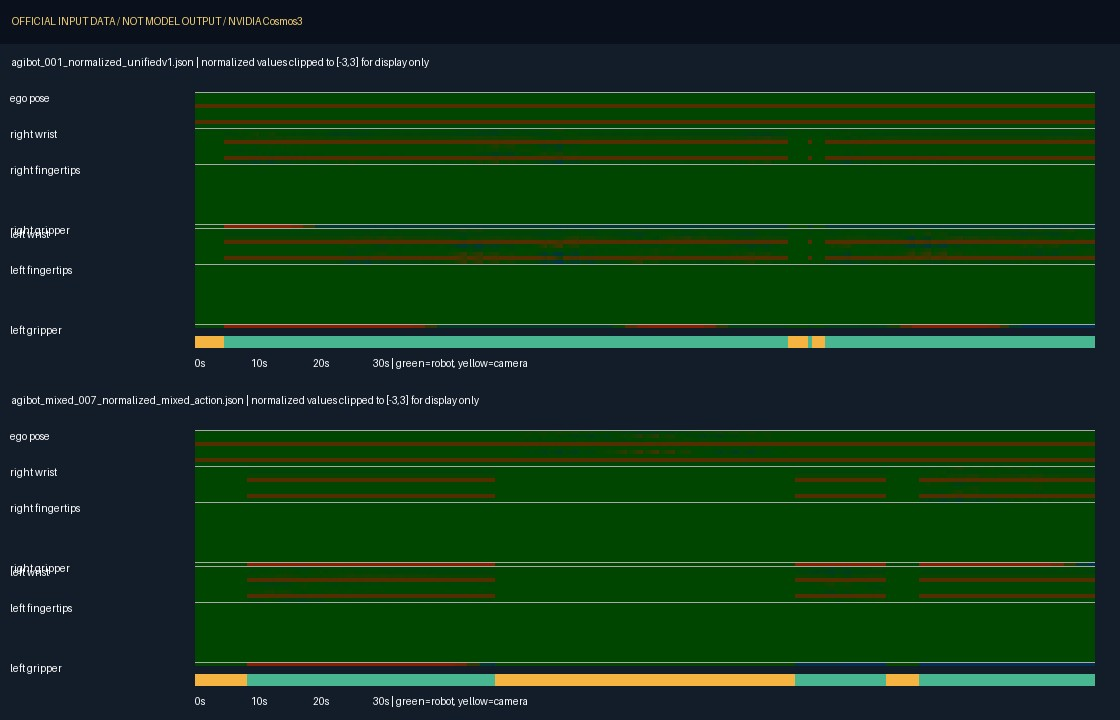
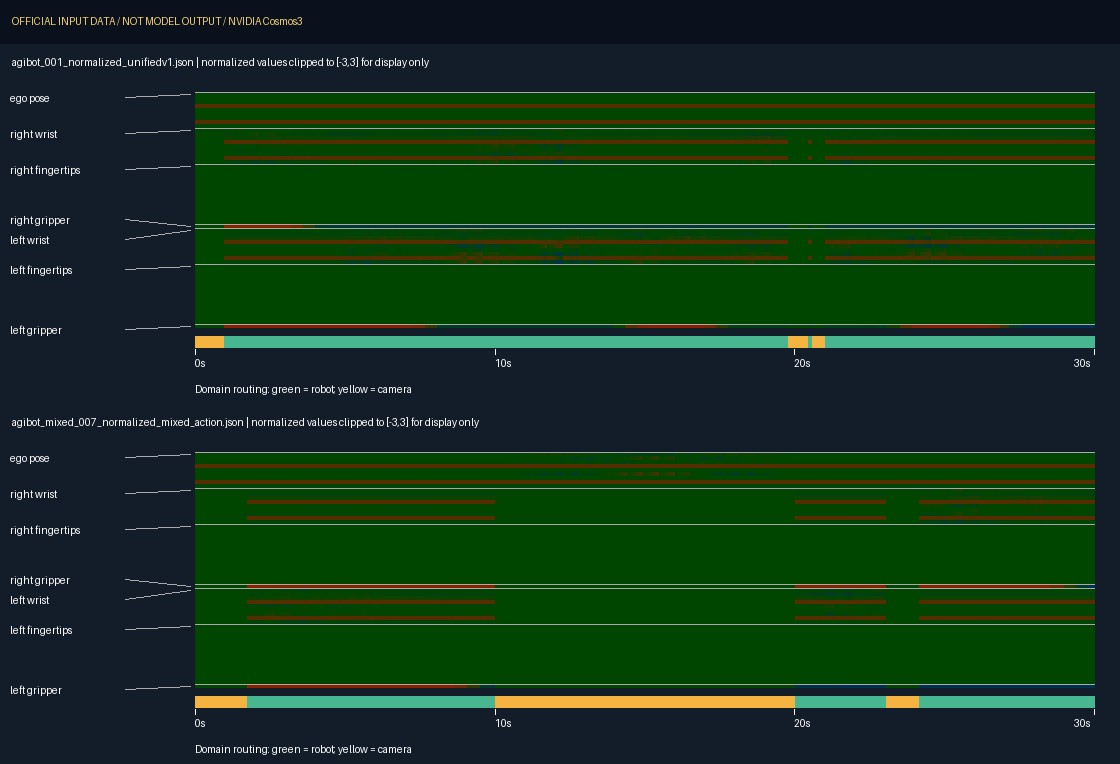
Clarify action plot time ticks and adjacent channel labels

diff --git a/scripts/preview_inputs.py b/scripts/preview_inputs.py
@@ -100,7 +100,7 @@ def main():
         heat[..., 2] = (255 * np.clip(-scaled, 0, 1)).astype(np.uint8)
         heat[..., 1] = (70 * (1 - np.abs(scaled))).astype(np.uint8)
         heatmap = Image.fromarray(heat).resize((900, 236), Image.Resampling.NEAREST)
-        panel = Image.new("RGB", (1120, 338), "#131d2a")
+        panel = Image.new("RGB", (1120, 360), "#131d2a")
         panel.paste(heatmap, (195, 48))
         draw = ImageDraw.Draw(panel)
         draw.text(
@@ -118,7 +118,9 @@ def main():
             ("left gripper", 58),
         ]:
             y = 48 + row * 4
-            draw.text((10, y), label, fill="white")
+            label_y = y - 10 if row == 33 else y + 6 if row == 34 else y
+            draw.text((10, label_y), label, fill="white")
+            draw.line((125, label_y + 5, 190, y + 2), fill="#aaaaaa")
             draw.line((195, y, 1094, y), fill="#aaaaaa")
         names = payload.get("domain_names", ["agibotworld"] * a.shape[1])
         if isinstance(names, str):
@@ -131,10 +133,12 @@ def main():
             Image.fromarray(colors).resize((900, 12), Image.Resampling.NEAREST),
             (195, 292),
         )
+        for time in (0, 10, 20, 30):
+            x = 195 + round(time / 30 * 899)
+            draw.line((x, 305, x, 310), fill="white")
+            draw.text((x - (20 if time == 30 else 0), 313), f"{time}s", fill="white")
         draw.text(
-            (195, 313),
-            "0s                       10s                       20s                      30s | green=robot, yellow=camera",
-            fill="white",
+            (195, 339), "Domain routing: green = robot; yellow = camera", fill="white"
         )
         panels.append(panel)
     board(panels, 1, "action-trajectory.jpg")
